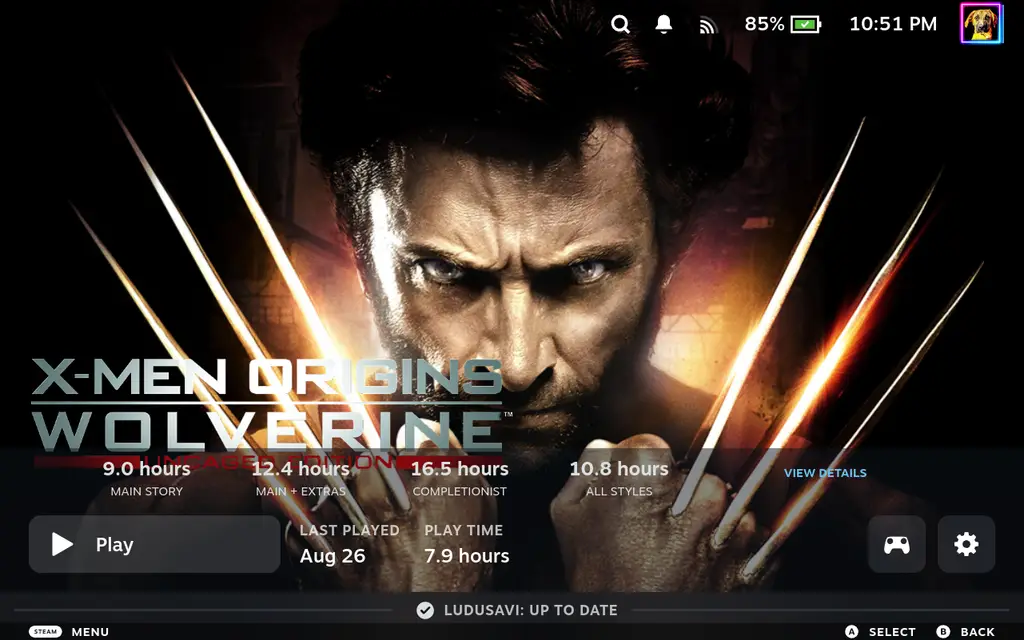
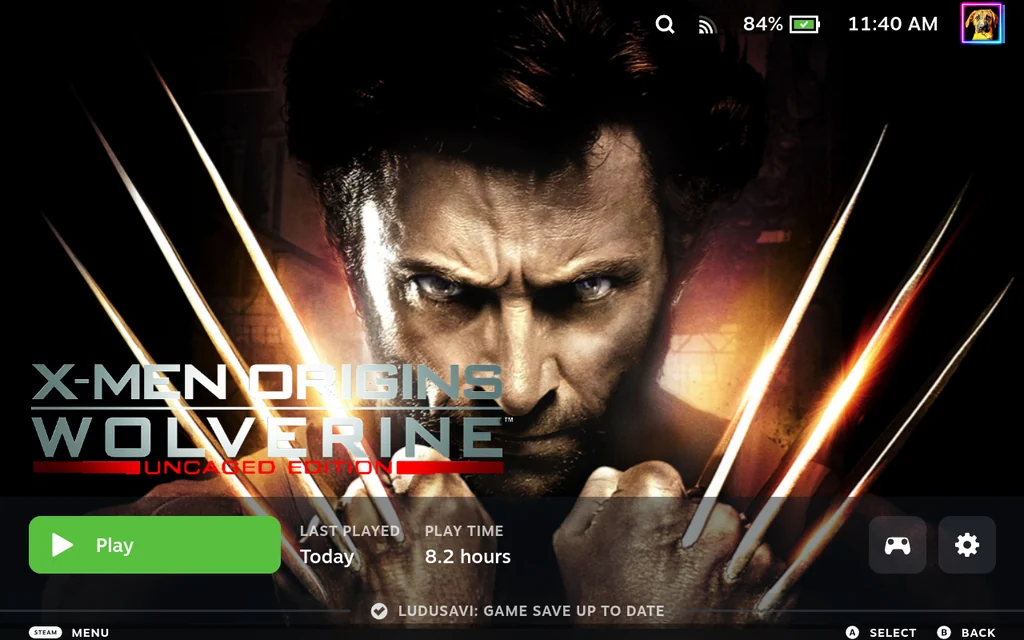
docs(media): refresh Wolverine demo and QAM screenshot

diff --git a/README.md b/README.md
@@ -2,11 +2,11 @@
 
 SDH-Ludusavi helps you back up and restore game saves from Gaming Mode on your Steam Deck. It uses Ludusavi to keep copies of your saves. If you turn on **Automatic Sync**, it checks for a newer backup before a game starts and backs up your saves when you quit.
 
-![SDH-Ludusavi in Gaming Mode](assets/demo.webp?cacheBuster=20)
+![SDH-Ludusavi save controls and status for X-Men Origins: Wolverine in Gaming Mode](assets/demo.webp?cacheBuster=21)
 
 You can see the latest save result on supported non-Steam game pages without opening the Decky menu. After automatic work when you quit a game, that game's page shows the full save message, such as local backup, upload, or upload-warning progress. Readable messages stay in the normal row even when a transparent footer area overlaps it. If a theme or the footer actually covers the message, a Steam-style fallback shows it on that same page. If you leave the page, the post-game message hides but the work continues. Returning shows the latest active state or retained result. Steam Cloud pages keep their usual Steam Cloud status.
 
-![Ludusavi showing Up to date on a non-Steam game page](assets/native-status-row.webp?cacheBuster=20)
+![Ludusavi showing Game save up to date on the X-Men Origins: Wolverine game page](assets/native-status-row.webp?cacheBuster=21)
 
 ## Before you install
 
